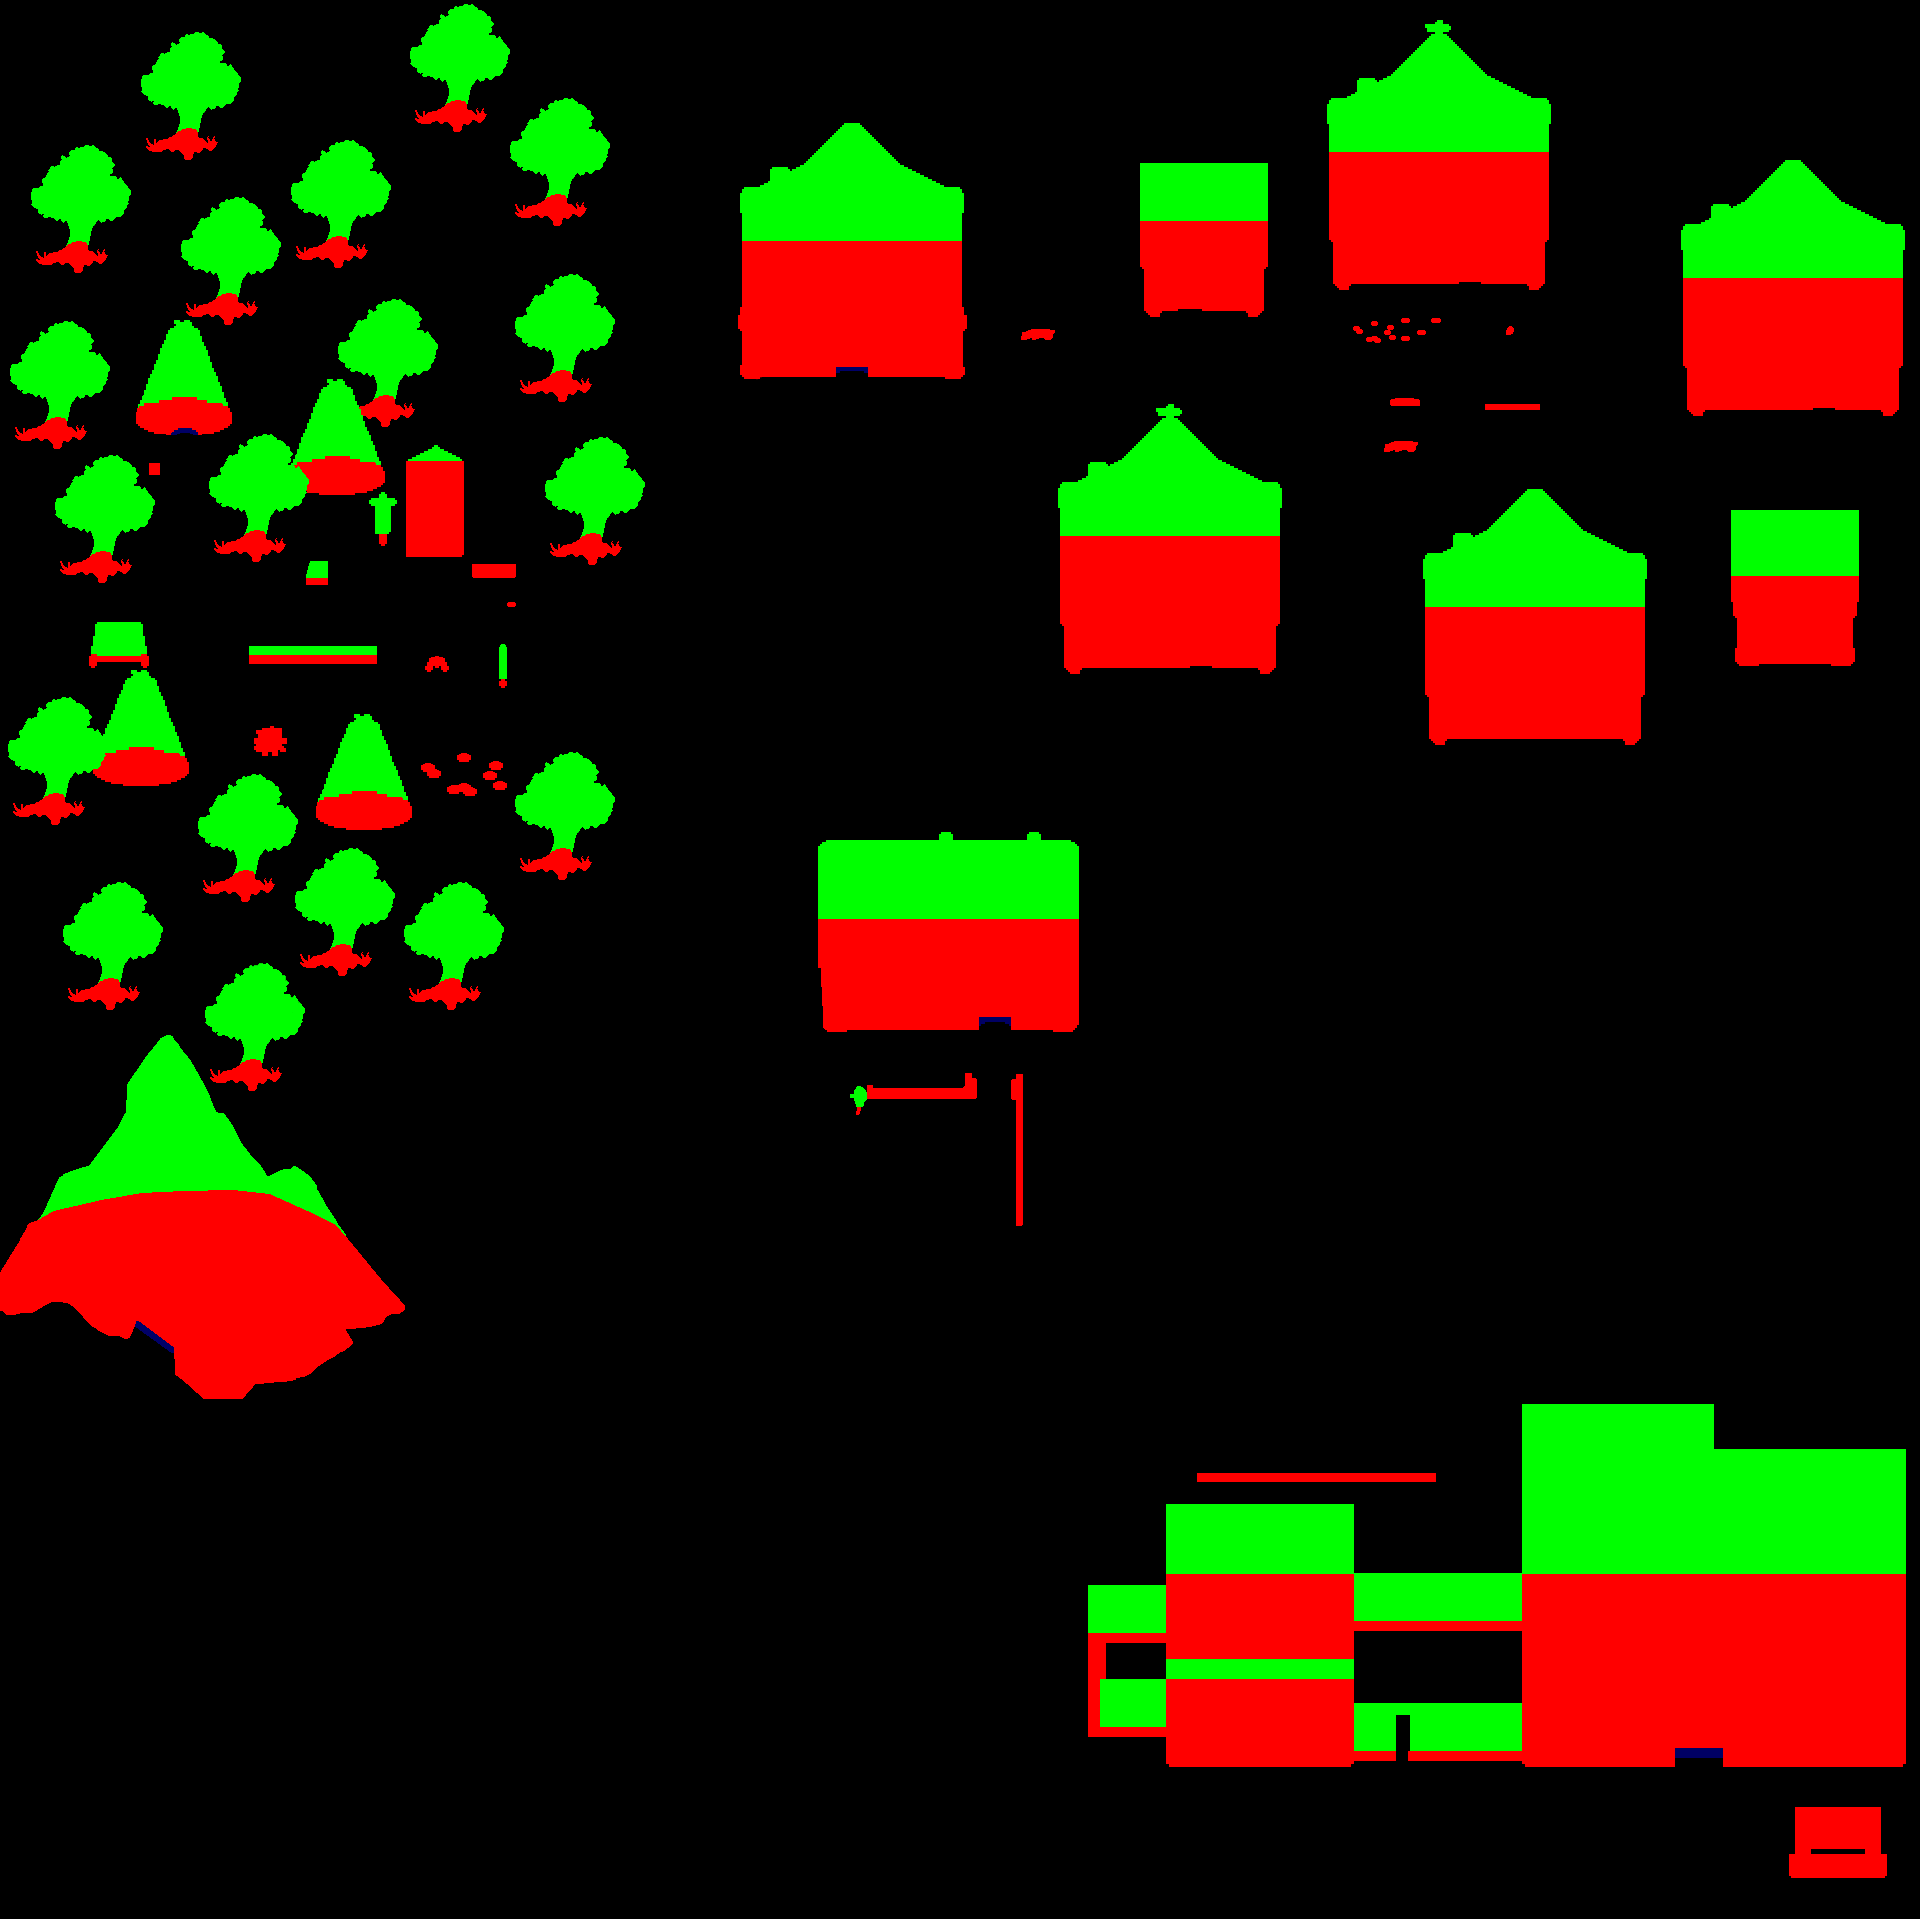
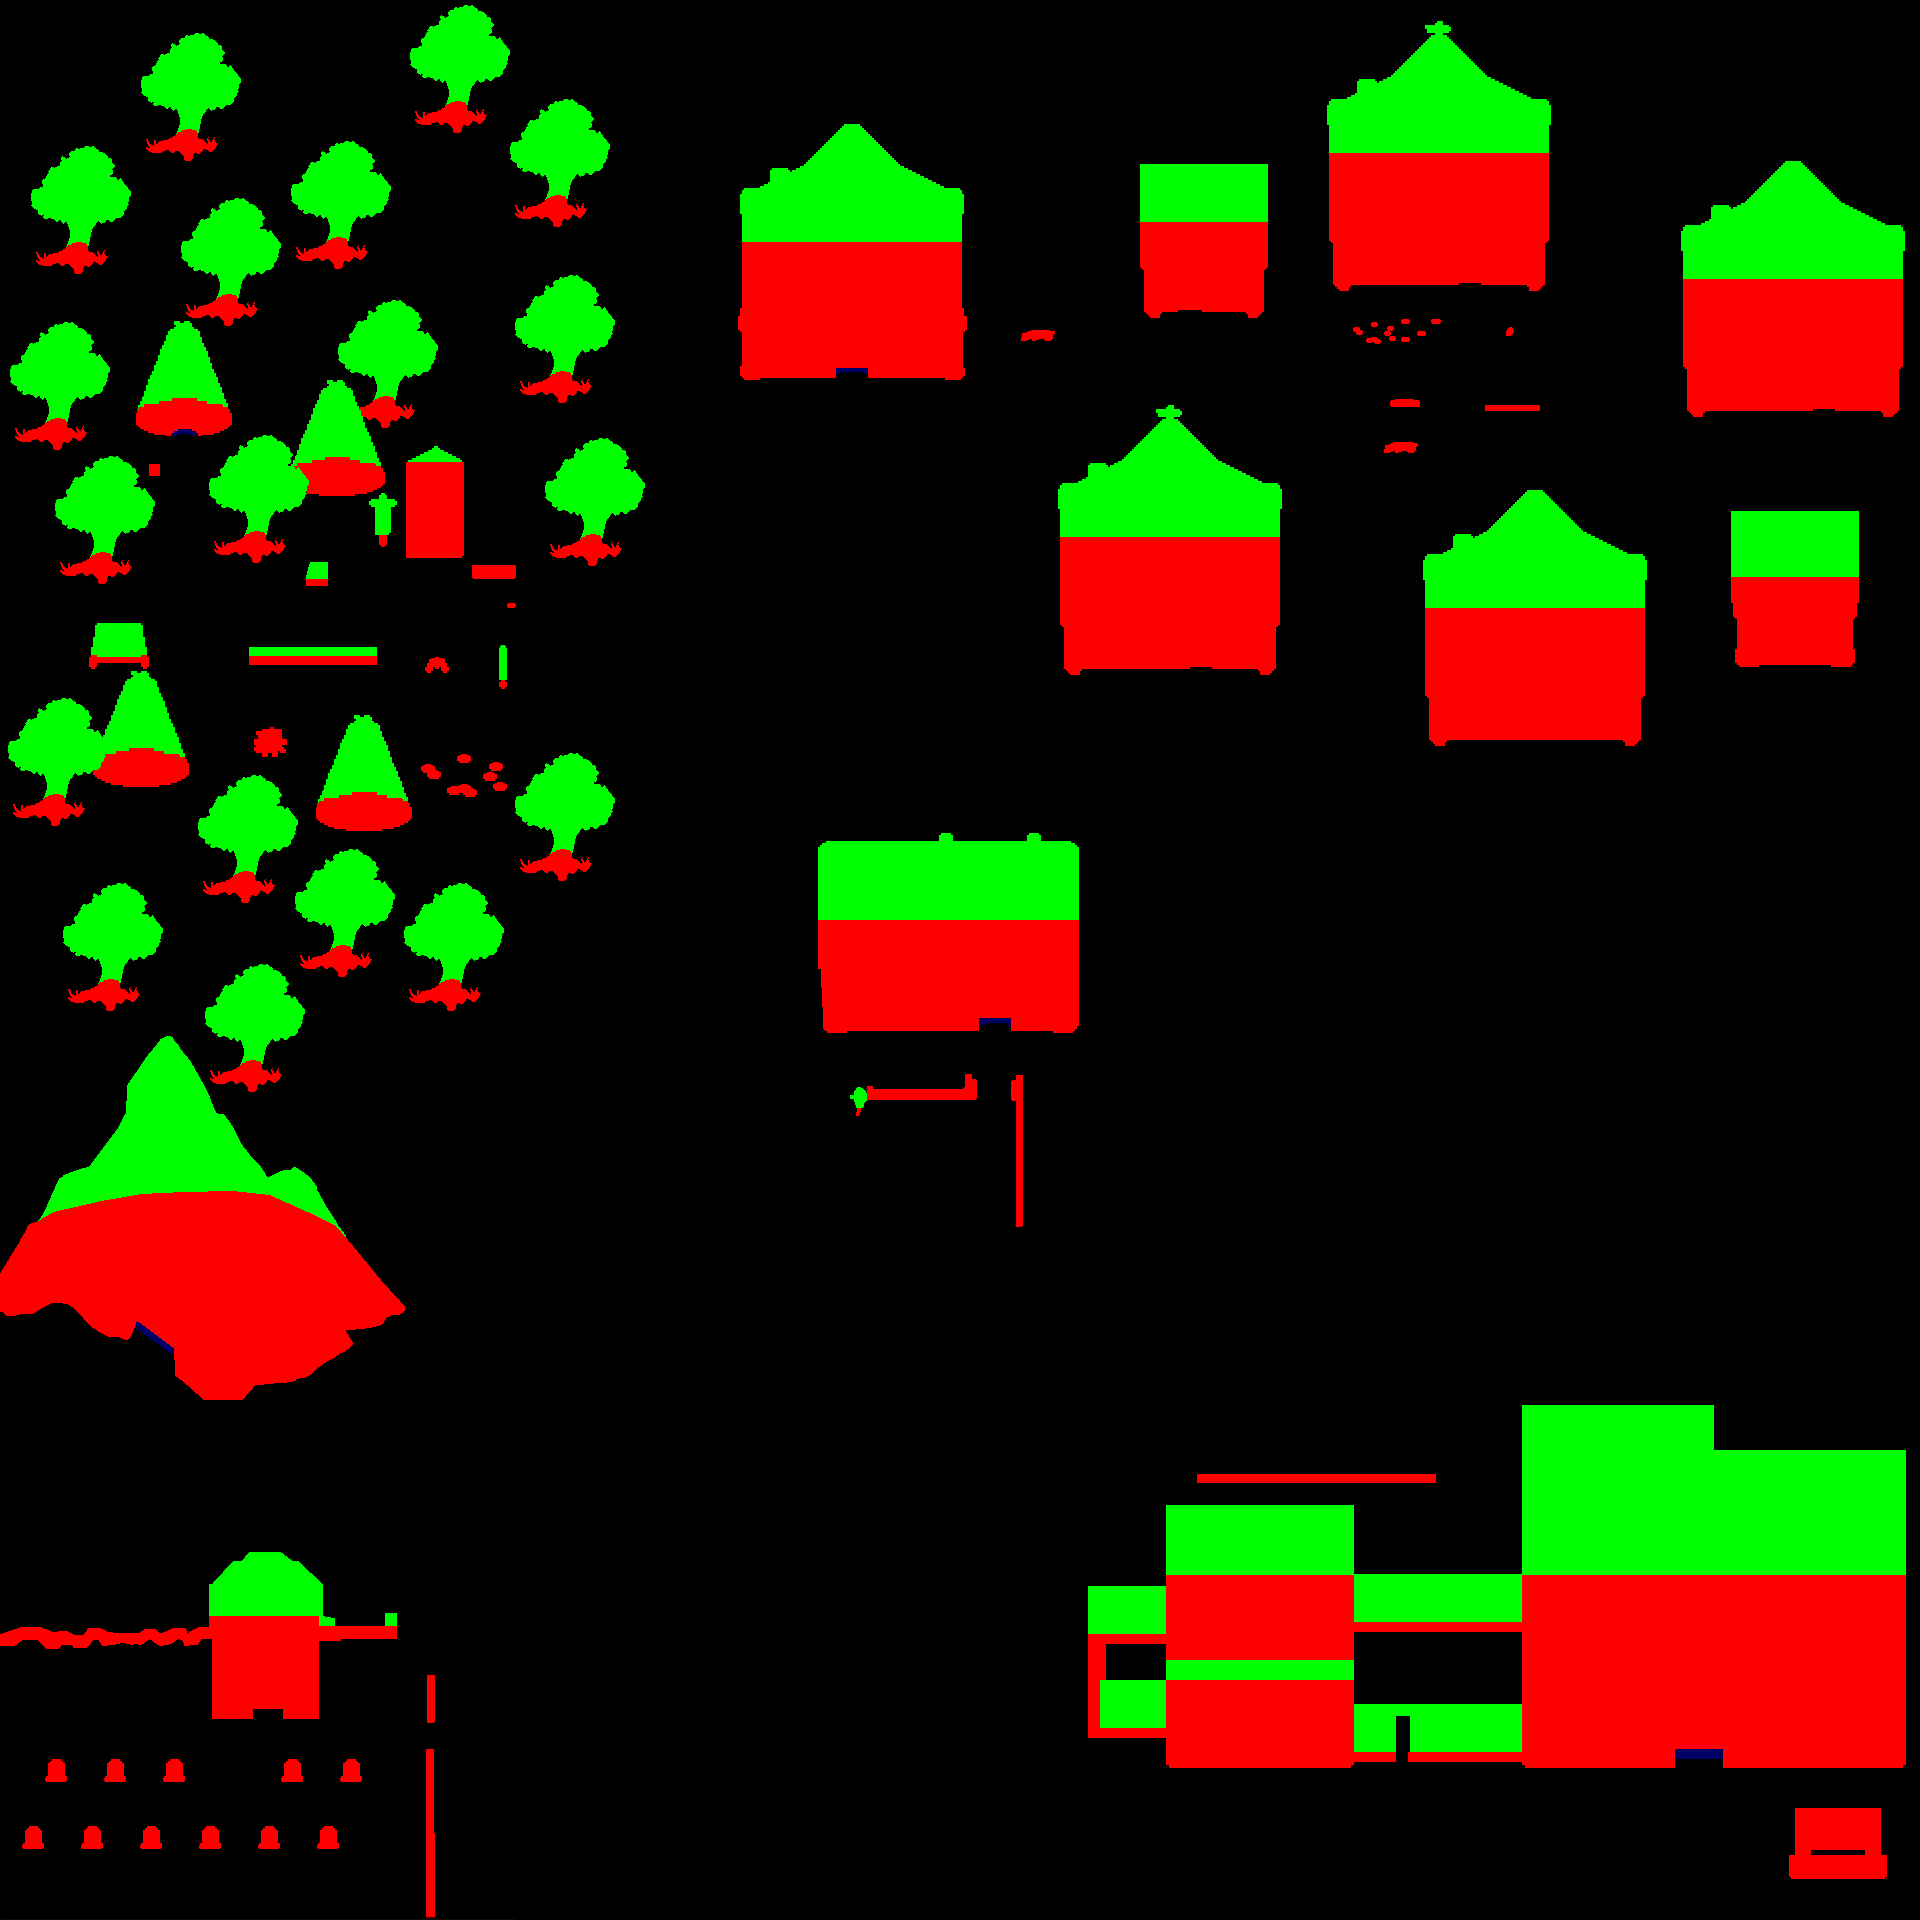
(|) colliisons main map

Changed region(s): [[0.0, 0.8125, 0.2188, 0.9688], [0.2188, 0.9062, 0.25, 1.0]]

diff --git a/src/init/init_screens.c b/src/init/init_screens.c
@@ -30,6 +30,9 @@ const int screen_option_menu[] = {SP_BACKGROUND_HOW_PLAY, SP_SOUND,
 SP_SOUND_SLIDER, SP_SOUNDBAR, SP_BOX_BUTTON, SP_SOUND_MUSIC,
 SP_SOUND_SLIDER_MUSIC, SP_SOUNDBAR_MUSIC, SP_BOX_BUTTON_MUSIC, SP_BACK,
 SP_CURSOR, -1};
+const int screen_cemetery[] = {SP_BACKGROUND_GROTTE, SELECTED_PLAYER,
+SP_BOSS_EXECUTIONER, SP_LIFE_BAR_BOX, SP_LIFE_BAR, SP_LIFE_BAR_BOX_BOSS,
+SP_LIFE_BAR_BOSS, SP_CURSOR, -1};
 
 void init_screens(rpg_t *rpg)
 {
@@ -54,6 +57,8 @@ void init_screens(rpg_t *rpg)
     .view_pos = {WIDTH / 2, HEIGHT / 2}, .view_zoom = 0.4, screen_pause_menu};
     rpg->screen[SC_OPTION] = (screen_t){.active = false,
     .view_pos = {WIDTH / 2, HEIGHT / 2}, .view_zoom = 1, screen_option_menu};
+    rpg->screen[SC_CEMETERY] = (screen_t){.active = false,
+    .view_pos = {444, 1196}, .view_zoom = 0.4, screen_cemetery};
     for (int i = 0; i < NBR_SC; ++i)
         rpg->screen[i].clock = sfClock_create();
 }

diff --git a/include/rpg.h b/include/rpg.h
@@ -90,14 +90,6 @@ enum sprites {
     NBR_SP
 };
 
-enum status_boss {
-    ST_IDLE,
-    ST_ATTACK_1,
-    ST_ATTACK_2,
-    ST_DIE,
-    NBR_ST
-};
-
 enum screens {
     SC_MENU,
     SC_CUSTOM_SKINS,
@@ -106,10 +98,19 @@ enum screens {
     SC_BASE,
     SC_GROTTE,
     SC_VICTORY_GROTTE,
+    SC_CEMETERY,
     SC_INVENTORY,
     SC_PAUSE,
     SC_OPTION,
     NBR_SC
+};
+
+enum status_boss {
+    ST_IDLE,
+    ST_ATTACK_1,
+    ST_ATTACK_2,
+    ST_DIE,
+    NBR_ST
 };
 
 enum bleu_maisons {
